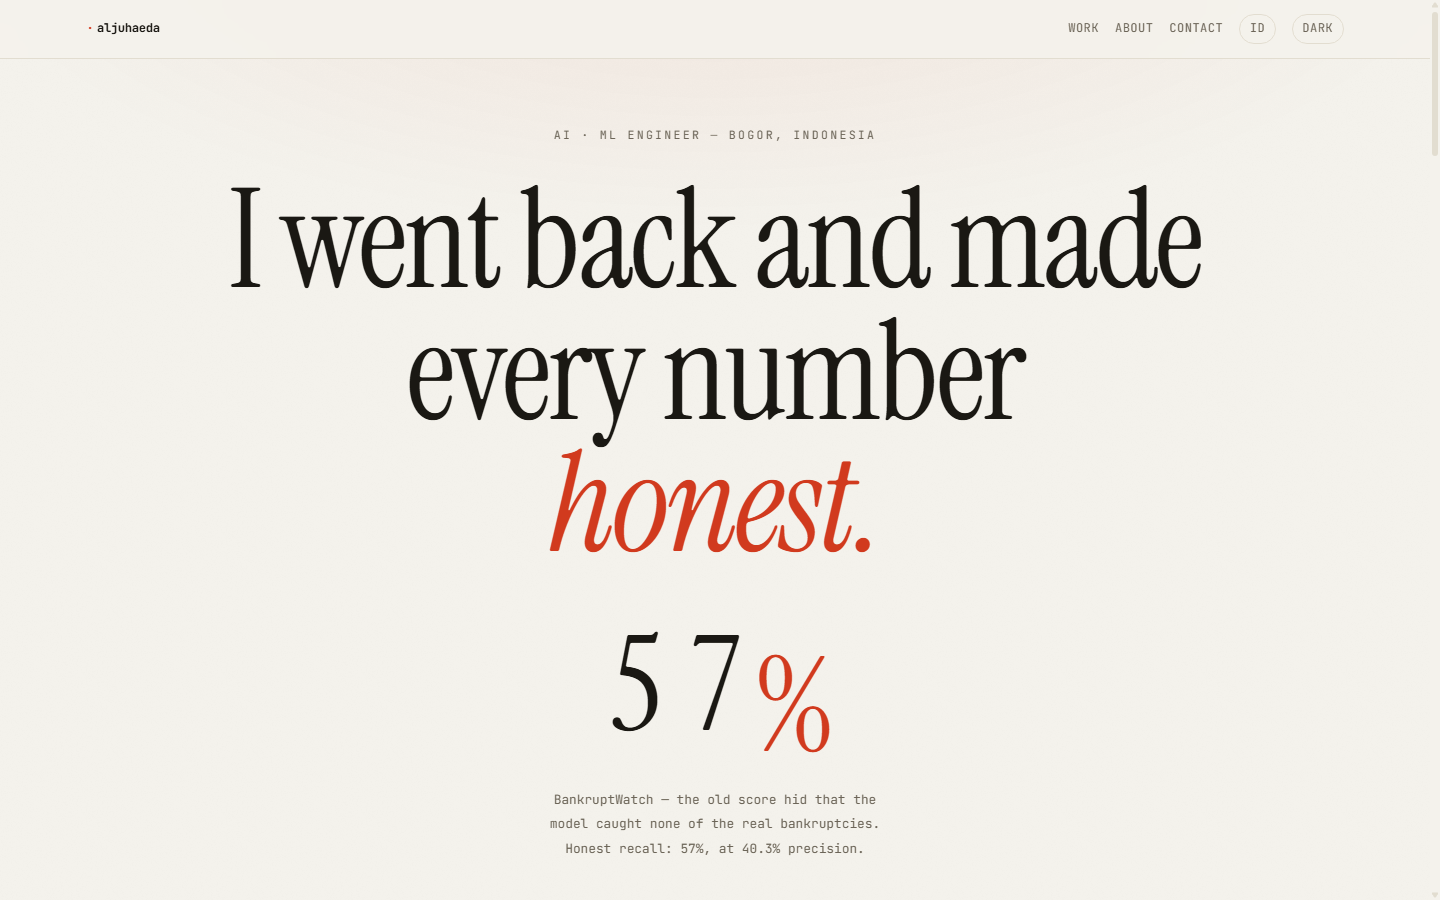
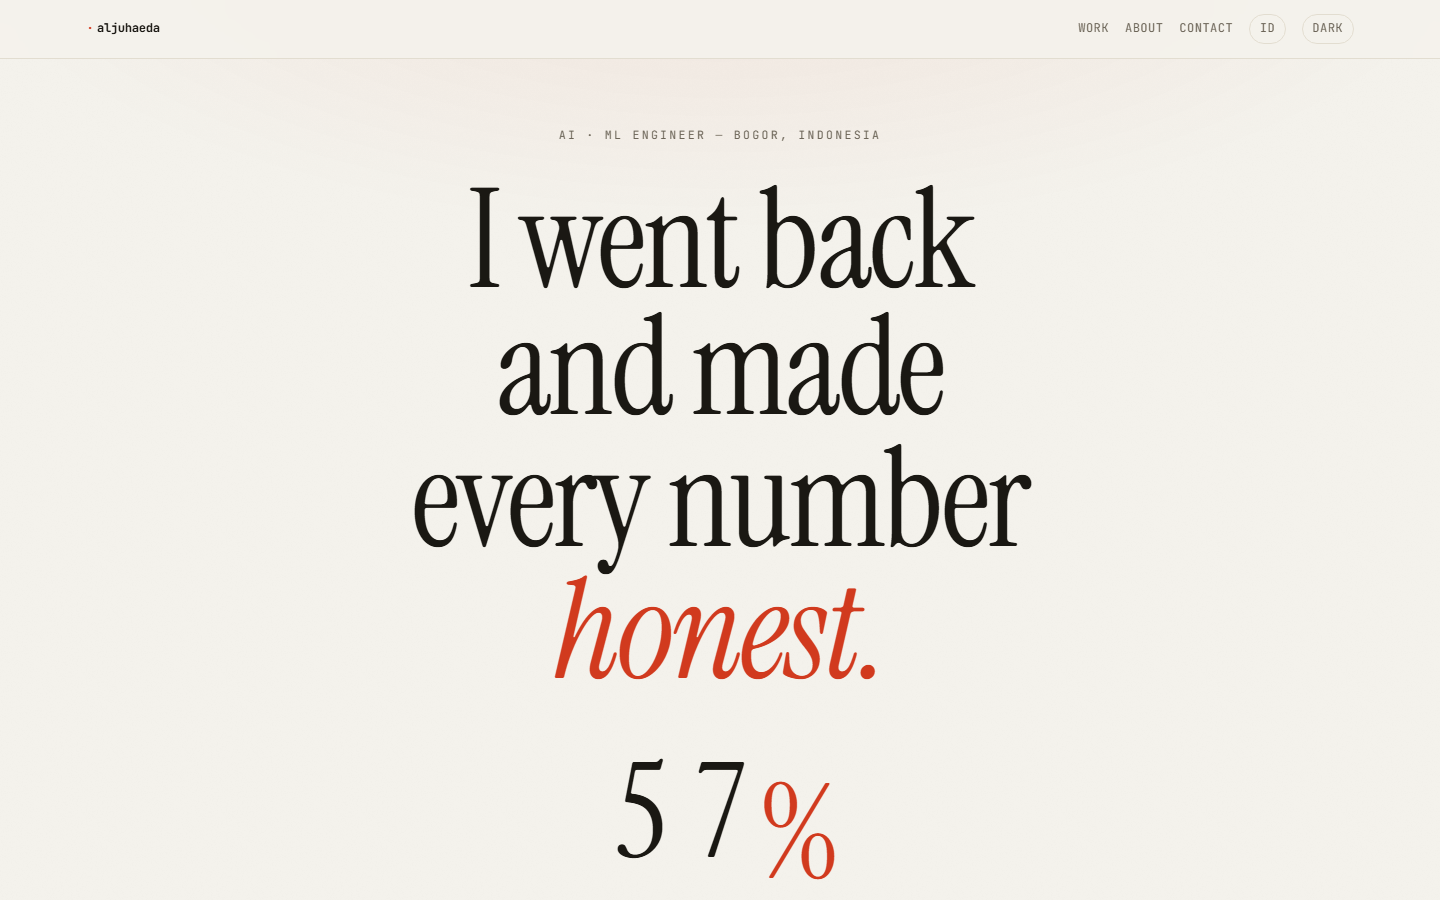
docs: refresh README + screenshot for current live state
New homepage screenshot ("Recompiled" rebuild). README History: note the Recompiled design shipped 2026-08-30, verified on desktop and a real phone.

Claude-Session: https://claude.ai/code/session_01DHB24cNdyMg2tZNqwteL3p

diff --git a/README.md b/README.md
@@ -54,5 +54,7 @@ entry to `EXTRAS` in `src/lib/projects.ts` (the build throws if one is missing).
 
 The site was originally scaffolded from Once UI's [Magic Portfolio](https://github.com/once-ui-system/magic-portfolio)
 template (CC BY-NC 4.0 — see [LICENSE](LICENSE)). It was rebuilt from scratch in
-2026 — the template and its component library were removed entirely; all content,
-layout, and styling are original.
+2026 — the template and its 129-component library were removed entirely; all
+content, layout, and styling are original. The current design ("Recompiled" —
+serif display type, an odometer stat, light-default palette) shipped 2026-08-30
+and is verified live on desktop and a real phone.
